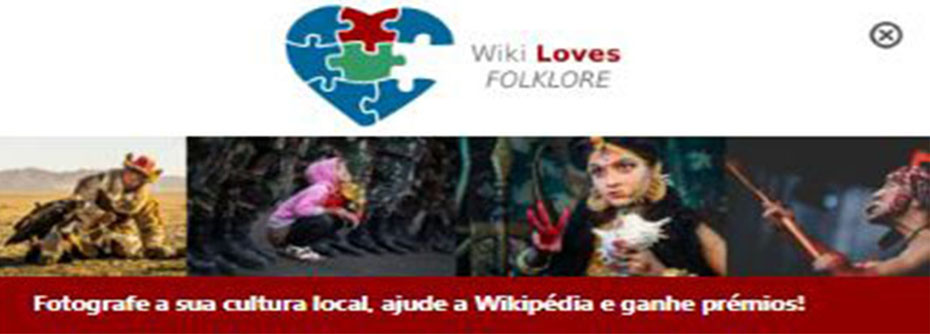
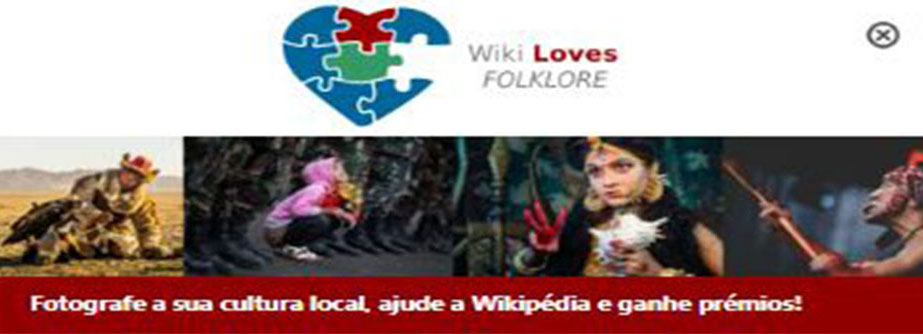
Atualização de Responsividade

diff --git a/css/home.css b/css/home.css
@@ -11,9 +11,9 @@ body, html {
     margin: 1% 2% 0%;
 }
 
-@media screen and (max-width: 480px) {
+@media screen and (max-width: 355px) {
     .logo {
-        margin: 0% 29%;
+        margin: 0% 55%;
     }
 }
 
@@ -26,9 +26,9 @@ body, html {
     width: 350px;
 }
 
-@media screen and (max-width: 480px){
+@media screen and (max-width: 355px){
     .form {
-     margin: 0% 15%;
+     margin: 0% 40%;
     }
     .form,input {
         width: 305px;
@@ -61,9 +61,9 @@ body, html {
     }
 }
 
-@media screen and (max-width: 480px){
+@media screen and (max-width: 355px){
     .bar {
-        width: 480px;
+        width: 615px;
     }
 }
 
@@ -73,15 +73,14 @@ body, html {
     max-width: 100%;
 }
 
-@media screen and (max-width: 480px){
+@media screen and (max-width: 363px){
     .banner-2 {
-        width: 1000px;
         margin: 0% -1%;
     }
 }
 
 .content {
-    max-width: 1000%;
+    max-width: 1425px;
     margin: auto;
     grid-gap: 3rem;
     display: grid;
@@ -97,7 +96,7 @@ body, html {
     width: 200px;
 }
 
-@media screen and (max-width: 480px) {
+@media screen and (max-width: 355px) {
     .content {
         flex-wrap: wrap;
     }
@@ -165,9 +164,9 @@ a {
     font-size: 12px;
 }
 
-@media screen and (max-width: 480px){
+@media screen and (max-width: 355px){
     .footer {
-        width: 480px;
+        width: 600px;
     }
 } 
 
@@ -176,7 +175,7 @@ a {
     margin: -4% 10%;
 }
 
-@media screen and (max-width: 480px){
+@media screen and (max-width: 355px){
    .wikipedia {
       margin: 0% 40%;
    }
@@ -187,7 +186,7 @@ a {
     margin: 1% 1%;
 }
 
-@media screen and (max-width: 480px){
+@media screen and (max-width: 355px){
     .mediawiki {
         margin: 5% 40%;
     }
